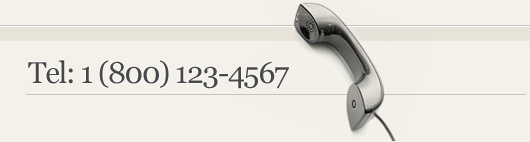
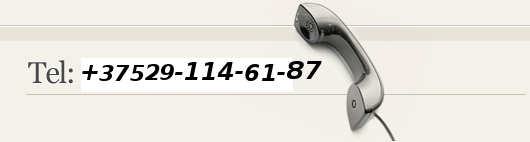
update telephone number, added gem capistrano, config/deploy.rb

Changed region(s): [[0.1509, 0.4225, 0.6038, 0.6197]]

diff --git a/config/deploy.rb b/config/deploy.rb
@@ -1,0 +1,112 @@
+# По умолчанию для дистрибуции проектов используется Bundler.
+# Эта строка включает автоматическое обновление и установку
+# недостающих gems, указанных в вашем Gemfile.
+#
+## !!! Не забудьте добавить
+# gem 'capistrano'
+# gem 'unicorn'
+#
+# в ваш Gemfile.
+#
+# Если вы используете другую систему управления зависимостями,
+# закомментируйте эту строку.
+require 'bundler/capistrano'
+
+## Чтобы не хранить database.yml в системе контроля версий, поместите
+## dayabase.yml в shared-каталог проекта на сервере и раскомментируйте
+## следующие строки.
+
+ after "deploy:update_code", :copy_database_config
+ task :copy_database_config, roles => :app do
+   db_config = "#{shared_path}/database.yml"
+   run "cp #{db_config} #{release_path}/config/database.yml"
+ end
+
+# В rails 3 по умолчанию включена функция assets pipelining,
+# которая позволяет значительно уменьшить размер статических
+# файлов css и js.
+# Эта строка автоматически запускает процесс подготовки
+# сжатых файлов статики при деплое.
+# Если вы не используете assets pipelining в своем проекте,
+# или у вас старая версия rails, закомментируйте эту строку.
+load 'deploy/assets'
+
+# Для удобства работы мы рекомендуем вам настроить авторизацию
+# SSH по ключу. При работе capistrano будет использоваться
+# ssh-agent, который предоставляет возможность пробрасывать
+# авторизацию на другие хосты.
+# Если вы не используете авторизацию SSH по ключам И ssh-agent,
+# закомментируйте эту опцию.
+ssh_options[:forward_agent] = true
+
+# Имя вашего проекта в панели управления.
+# Не меняйте это значение без необходимости, оно используется дальше.
+set :application,     "trest-wood"
+
+# Сервер размещения проекта.
+set :deploy_server,   "fluorine.locum.ru"
+
+# Не включать в поставку разработческие инструменты и пакеты тестирования.
+set :bundle_without,  [:development, :test]
+
+set :user,            "hosting_atom11"
+set :login,           "atom11"
+set :use_sudo,        false
+set :deploy_to,       "/home/#{user}/projects/#{application}"
+set :unicorn_conf,    "/etc/unicorn/#{application}.#{login}.rb"
+set :unicorn_pid,     "/var/run/unicorn/#{application}.#{login}.pid"
+set :bundle_dir,      File.join(fetch(:shared_path), 'gems')
+role :web,            deploy_server
+role :app,            deploy_server
+role :db,             deploy_server, :primary => true
+
+
+# Следующие строки необходимы, т.к. ваш проект использует rvm.
+set :rvm_ruby_string, "1.9.3"
+set :rake,            "rvm use #{rvm_ruby_string} do bundle exec rake"
+set :bundle_cmd,      "rvm use #{rvm_ruby_string} do bundle"
+
+
+# Настройка системы контроля версий и репозитария,
+# по умолчанию - git, если используется иная система версий,
+# нужно изменить значение scm.
+set :scm,             :git
+
+# Предполагается, что вы размещаете репозиторий Git в вашем
+# домашнем каталоге в подкаталоге git/<имя проекта>.git.
+# Подробнее о создании репозитория читайте в нашем блоге
+# http://locum.ru/blog/hosting/git-on-locum
+#set :repository,      "ssh://#{user}@#{deploy_server}/home/#{user}/git/#{application}.git"
+
+## Если ваш репозиторий в GitHub, используйте такую конфигурацию
+set :repository,    "git@github.com:SergeyBerdnikovich/trest-wood.git"
+
+## --- Ниже этого места ничего менять скорее всего не нужно ---
+
+before 'deploy:finalize_update', 'set_current_release'
+task :set_current_release, :roles => :app do
+    set :current_release, latest_release
+end
+
+
+  set :unicorn_start_cmd, "(cd #{deploy_to}/current; rvm use #{rvm_ruby_string} do bundle exec unicorn_rails -Dc #{unicorn_conf})"
+
+
+
+# - for unicorn - #
+namespace :deploy do
+  desc "Start application"
+  task :start, :roles => :app do
+    run unicorn_start_cmd
+  end
+
+  desc "Stop application"
+  task :stop, :roles => :app do
+    run "[ -f #{unicorn_pid} ] && kill -QUIT `cat #{unicorn_pid}`"
+  end
+
+  desc "Restart Application"
+  task :restart, :roles => :app do
+    run "[ -f #{unicorn_pid} ] && kill -USR2 `cat #{unicorn_pid}` || #{unicorn_start_cmd}"
+  end
+end
